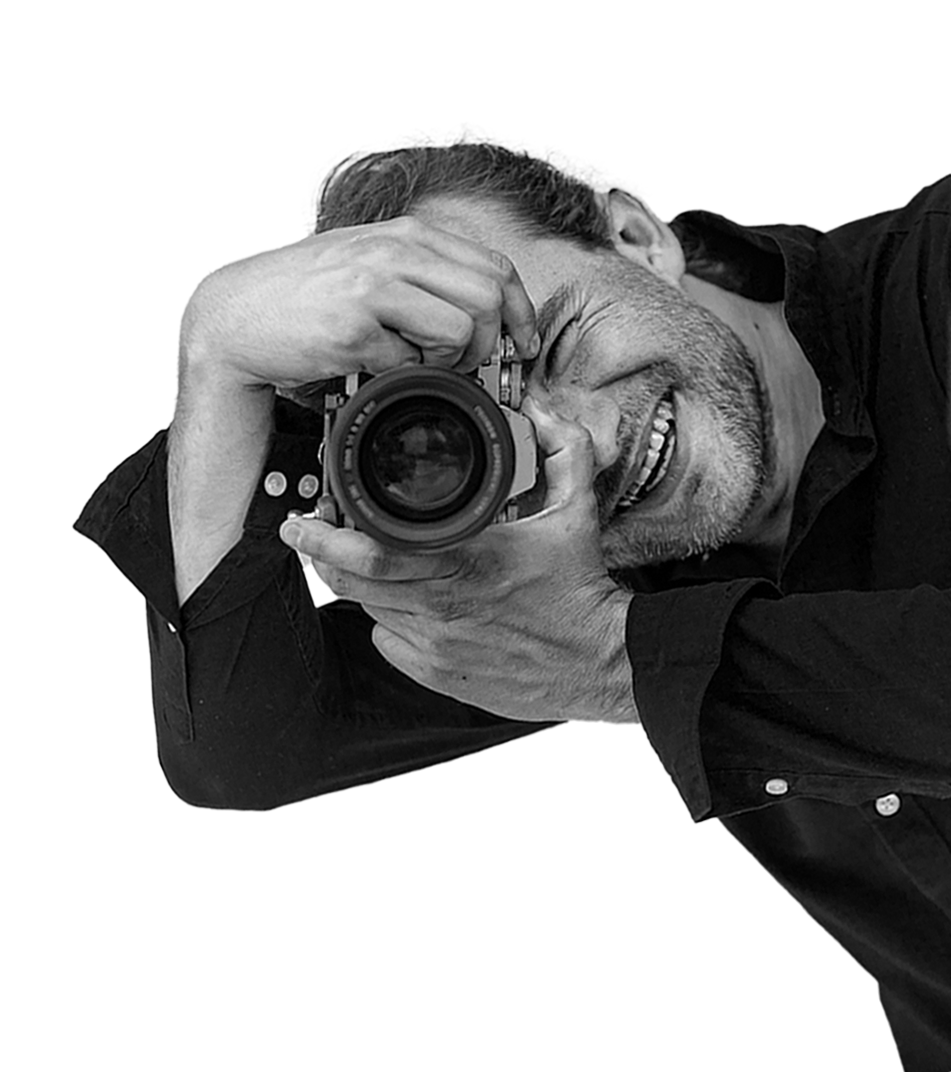
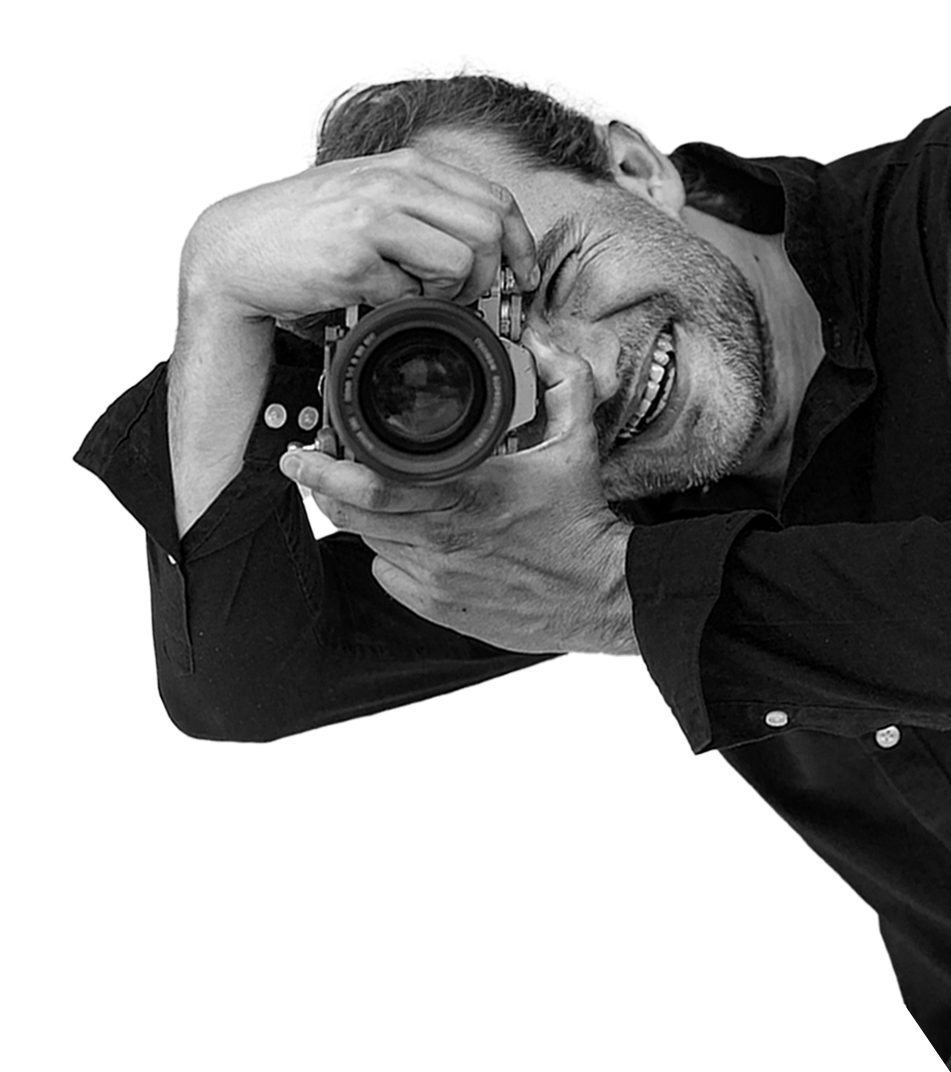
HAM MENU MODIFIER

diff --git a/index.html b/index.html
@@ -65,14 +65,33 @@
         class="nav-menu"
       >
         <ul>
-          <li><a href="#bio">Bio</a></li>
-          <li><a href="#gallery">Galerie</a></li>
-          <li><a href="#kontakt">Kontakt</a></li>
+          <li>
+            <a
+              onclick="hamburgerCloser()"
+              href="#bio"
+              >Bio</a
+            >
+          </li>
+          <li>
+            <a
+              onclick="hamburgerCloser()"
+              href="#gallery"
+              >Galerie</a
+            >
+          </li>
+          <li>
+            <a
+              onclick="hamburgerCloser()"
+              href="#kontakt"
+              >Kontakt</a
+            >
+          </li>
         </ul>
         <div class="icons nav-icons">
           <a
             href="https://www.facebook.com/danihelkafoto/"
             target="_blank"
+            onclick="hamburgerCloser()"
           >
             <svg
               enable-background="new 0 0 56.693 56.693"
@@ -94,6 +113,7 @@
           <a
             href="https://www.instagram.com/jakubdanihelka_fotograf/"
             target="_blank"
+            onclick="hamburgerCloser()"
           >
             <svg
               height="90%"
@@ -112,7 +132,10 @@
           </a>
         </div>
       </div>
-      <div class="ham-menu">
+      <div
+        class="ham-menu"
+        onclick="hamburgerCloser()"
+      >
         <span></span>
         <span></span>
         <span></span>
@@ -175,7 +198,7 @@
             >.
           </p>
           <img
-            class="img-bio-side"
+            class="img-bio-side img-bot"
             src="images/jakub-bio-side.png"
             alt="Jakub Danihelka fotografie fotografa"
           />

diff --git a/styles.css b/styles.css
@@ -368,7 +368,7 @@ article p:nth-child(2):before{
     background-color: var(--color);
     width: 20%;
     bottom: 1rem;
-    right: 1rem;
+    right: -4rem;
     rotate: 90deg;
 }
 article p:nth-child(2):after {
@@ -378,13 +378,16 @@ article p:nth-child(2):after {
     background-color: var(--color);
     width: 20%;
     bottom: -1rem;
-    right: 3rem;
+    right: -2rem;
 }
 .img-bio-side {
     position: absolute;
-    max-height: 500px;
+    max-height: 400px;
     bottom: 0px;
     right: 0px;
+}
+.img-bot{
+    bottom: 13rem
 }
 /* Layout - gallery */
 .gallery {
@@ -528,6 +531,8 @@ article p:nth-child(2):after {
     bottom: 2rem;
     left: -2.3rem;
 }
+.hamLink{
+}
 .kontakt-font {
     color: var(--white);
     max-width: 50ch;
@@ -537,6 +542,7 @@ article p:nth-child(2):after {
 .kontakt-block{
     text-align: center;
     max-width: 40ch;
+    margin: 6rem 0;
 }
 .kontakt-block h3{
     font-size: 3rem;
@@ -549,7 +555,7 @@ article p:nth-child(2):after {
     padding: 1.75rem 0;
 }
 .footer-section {
-    height: 80px;
+    height: 50px;
     position: relative;
     background-color: var(--black);
     display: flex;
@@ -591,6 +597,15 @@ nav p {
 .nav-menu.active{
     transform: translatex(0%);
 }
+.nav-scrolled {
+    --text: rgb(18, 18, 18);
+    --text-inverse: rgb(253, 253, 253);
+    --background: rgb(253,
+            253,
+            253);
+    transition: ease-in-out 200ms;
+    border-bottom: 1px solid var(--color);
+}
 nav li a {
     font-size: clamp(1.3rem, 0.8rem + 2.5vw, 2rem);
     color: #181818;
@@ -617,7 +632,8 @@ nav li {
     position: absolute;
     z-index: 110;
     right: 2rem;
-    top: 1.5rem
+    top: 1.5rem;
+    cursor: ;
 }
 
 .ham-menu span {

diff --git a/script.js b/script.js
@@ -4,6 +4,11 @@ const svgTwo = document.querySelector("#svg-icon2")
 const images = document.querySelector(".icons")
 const sectionOne = document.querySelector(".hero");
 const hamburger = document.querySelector("#dropdown");
+const linkOne = document.querySelector("#link-1")
+const linkTwo = document.querySelector("#link-2")
+const linkThree = document.querySelector("#link-3")
+const linkFour = document.querySelector("#link-4")
+const linkFive = document.querySelector("#link-5")
 
 const sectionOneOptions= {
     rootMargin: "-250px 0px 0px 0px"
@@ -27,9 +32,11 @@ const hamMenu = document.querySelector(".ham-menu");
 
 const navMenu = document.querySelector(".nav-menu");
 
-hamMenu.addEventListener("click", () => {
-  hamMenu.classList.toggle("active");
-  navMenu.classList.toggle("active");
-});
+const hamburgerCloser = () => {
+    hamMenu.classList.toggle("active");
+    navMenu.classList.toggle("active");
+}
+
 
 sectionOneObserver.observe(sectionOne);
+hamburgerCloser();
